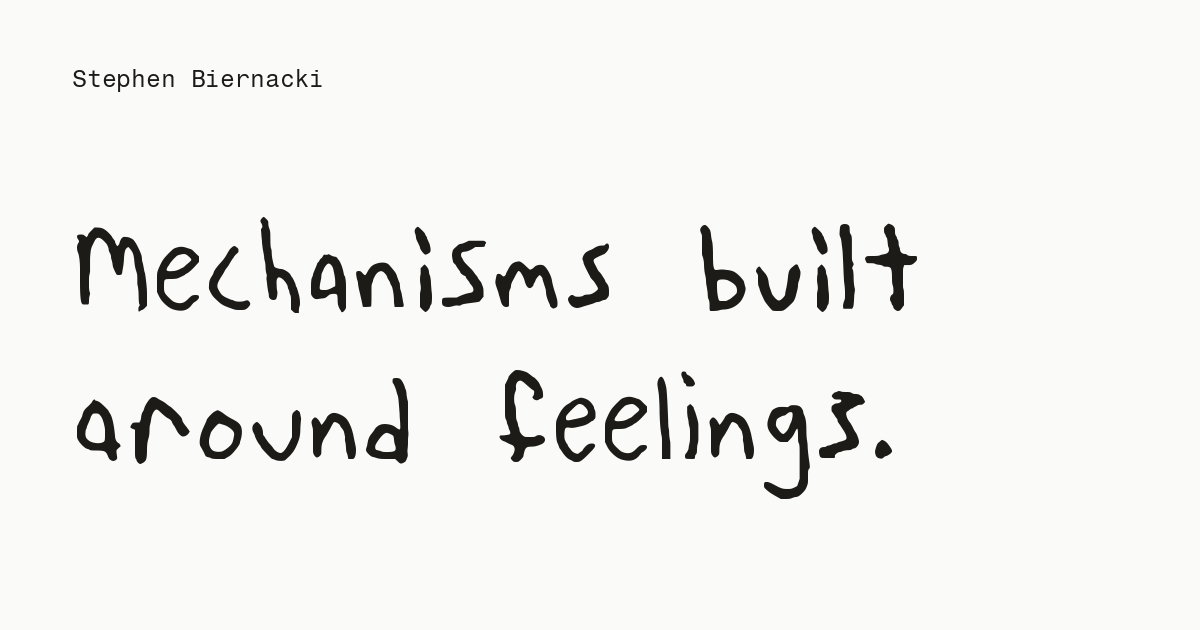
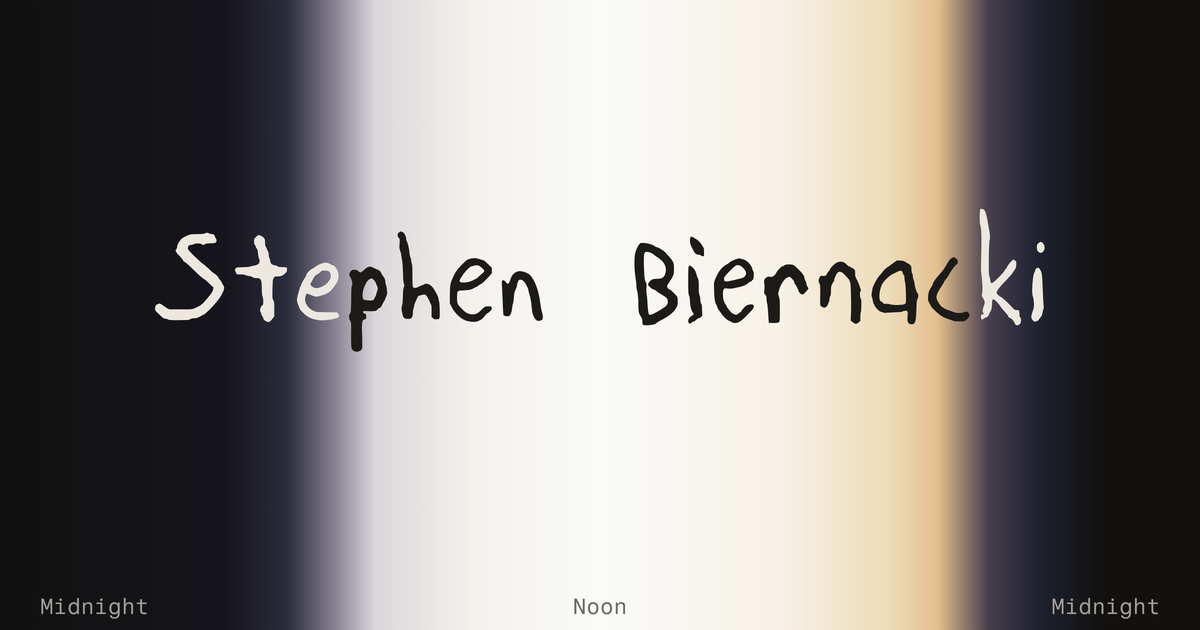
The site's share image is The day
Stephen's pick: his name in the hand across the colors the site takes
through one day, from midnight to midnight, each letter in the ink the
site uses on the color behind it. The front page, the Statement,
Elsewhere, the 404 page and the five live works without a card of their
own use it. Pages now ask for og.png?v=2, so services that kept the old
card fetch the new one, and each gives the image a plain description.

Claude-Session: https://claude.ai/code/session_014FDTHNW6CwwbjPTPEX69sd

diff --git a/index.html b/index.html
@@ -11,9 +11,10 @@
 <meta property="og:site_name" content="Stephen Biernacki">
 <meta property="og:title" content="Stephen Biernacki">
 <meta property="og:description" content="Mechanisms built around feelings. Two decades and counting in marketing — the business of being seen — but the art goes the other way.">
-<meta property="og:image" content="https://stephenbiernacki.com/assets/og.png">
+<meta property="og:image" content="https://stephenbiernacki.com/assets/og.png?v=2">
 <meta property="og:image:width" content="1200">
 <meta property="og:image:height" content="630">
+<meta property="og:image:alt" content="Stephen Biernacki, handwritten across the colors this site takes through one day: dark at midnight, white at noon, warm at dusk.">
 <meta name="twitter:card" content="summary_large_image">
 <link rel="icon" href="favicon.svg" type="image/svg+xml">
 <link rel="icon" href="favicon-32.png" sizes="32x32" type="image/png">

diff --git a/works/alien-invasion-of-privacy/index.html b/works/alien-invasion-of-privacy/index.html
@@ -11,9 +11,10 @@
 <meta property="og:site_name" content="Stephen Biernacki">
 <meta property="og:title" content="Alien Invasion of Privacy by Stephen Biernacki">
 <meta property="og:description" content="In the movies, the aliens are the ones watching. Here, the alien is the one being watched.">
-<meta property="og:image" content="https://stephenbiernacki.com/assets/og.png">
+<meta property="og:image" content="https://stephenbiernacki.com/assets/og.png?v=2">
 <meta property="og:image:width" content="1200">
 <meta property="og:image:height" content="630">
+<meta property="og:image:alt" content="Stephen Biernacki, handwritten across the colors this site takes through one day: dark at midnight, white at noon, warm at dusk.">
 <meta name="twitter:card" content="summary_large_image">
 <link rel="icon" href="../../favicon.svg" type="image/svg+xml">
 <link rel="icon" href="../../favicon-32.png" sizes="32x32" type="image/png">

diff --git a/works/untitled-for-jo/index.html b/works/untitled-for-jo/index.html
@@ -11,9 +11,10 @@
 <meta property="og:site_name" content="Stephen Biernacki">
 <meta property="og:title" content="Untitled (For Jo) by Stephen Biernacki">
 <meta property="og:description" content="An ever-changing, screen-adaptive digital evolution of Jo Baer’s Single Paintings series.">
-<meta property="og:image" content="https://stephenbiernacki.com/assets/og.png">
+<meta property="og:image" content="https://stephenbiernacki.com/assets/og.png?v=2">
 <meta property="og:image:width" content="1200">
 <meta property="og:image:height" content="630">
+<meta property="og:image:alt" content="Stephen Biernacki, handwritten across the colors this site takes through one day: dark at midnight, white at noon, warm at dusk.">
 <meta name="twitter:card" content="summary_large_image">
 <link rel="icon" href="../../favicon.svg" type="image/svg+xml">
 <link rel="icon" href="../../favicon-32.png" sizes="32x32" type="image/png">

diff --git a/works/unbecoming/index.html b/works/unbecoming/index.html
@@ -11,9 +11,10 @@
 <meta property="og:site_name" content="Stephen Biernacki">
 <meta property="og:title" content="UNBECOMING by Stephen Biernacki">
 <meta property="og:description" content="A reflection on the quiet unraveling of self within relationships.">
-<meta property="og:image" content="https://stephenbiernacki.com/assets/og.png">
+<meta property="og:image" content="https://stephenbiernacki.com/assets/og.png?v=2">
 <meta property="og:image:width" content="1200">
 <meta property="og:image:height" content="630">
+<meta property="og:image:alt" content="Stephen Biernacki, handwritten across the colors this site takes through one day: dark at midnight, white at noon, warm at dusk.">
 <meta name="twitter:card" content="summary_large_image">
 <link rel="icon" href="../../favicon.svg" type="image/svg+xml">
 <link rel="icon" href="../../favicon-32.png" sizes="32x32" type="image/png">

diff --git a/works/vestige/index.html b/works/vestige/index.html
@@ -11,9 +11,10 @@
 <meta property="og:site_name" content="Stephen Biernacki">
 <meta property="og:title" content="Vestige by Stephen Biernacki">
 <meta property="og:description" content="He’s with me, but it’s different now.">
-<meta property="og:image" content="https://stephenbiernacki.com/assets/og.png">
+<meta property="og:image" content="https://stephenbiernacki.com/assets/og.png?v=2">
 <meta property="og:image:width" content="1200">
 <meta property="og:image:height" content="630">
+<meta property="og:image:alt" content="Stephen Biernacki, handwritten across the colors this site takes through one day: dark at midnight, white at noon, warm at dusk.">
 <meta name="twitter:card" content="summary_large_image">
 <link rel="icon" href="../../favicon.svg" type="image/svg+xml">
 <link rel="icon" href="../../favicon-32.png" sizes="32x32" type="image/png">

diff --git a/elsewhere/index.html b/elsewhere/index.html
@@ -11,9 +11,10 @@
 <meta property="og:site_name" content="Stephen Biernacki">
 <meta property="og:title" content="Elsewhere — Stephen Biernacki">
 <meta property="og:description" content="Where to find Stephen Biernacki’s work.">
-<meta property="og:image" content="https://stephenbiernacki.com/assets/og.png">
+<meta property="og:image" content="https://stephenbiernacki.com/assets/og.png?v=2">
 <meta property="og:image:width" content="1200">
 <meta property="og:image:height" content="630">
+<meta property="og:image:alt" content="Stephen Biernacki, handwritten across the colors this site takes through one day: dark at midnight, white at noon, warm at dusk.">
 <meta name="twitter:card" content="summary_large_image">
 <link rel="icon" href="../favicon.svg" type="image/svg+xml">
 <link rel="icon" href="../favicon-32.png" sizes="32x32" type="image/png">

diff --git a/works/self-addressed/index.html b/works/self-addressed/index.html
@@ -11,9 +11,10 @@
 <meta property="og:site_name" content="Stephen Biernacki">
 <meta property="og:title" content="Self-Addressed by Stephen Biernacki">
 <meta property="og:description" content="For you, with a bit of me.">
-<meta property="og:image" content="https://stephenbiernacki.com/assets/og.png">
+<meta property="og:image" content="https://stephenbiernacki.com/assets/og.png?v=2">
 <meta property="og:image:width" content="1200">
 <meta property="og:image:height" content="630">
+<meta property="og:image:alt" content="Stephen Biernacki, handwritten across the colors this site takes through one day: dark at midnight, white at noon, warm at dusk.">
 <meta name="twitter:card" content="summary_large_image">
 <link rel="icon" href="../../favicon.svg" type="image/svg+xml">
 <link rel="icon" href="../../favicon-32.png" sizes="32x32" type="image/png">

diff --git a/statement/index.html b/statement/index.html
@@ -11,9 +11,10 @@
 <meta property="og:site_name" content="Stephen Biernacki">
 <meta property="og:title" content="Statement — Stephen Biernacki">
 <meta property="og:description" content="I build mechanisms around feelings.">
-<meta property="og:image" content="https://stephenbiernacki.com/assets/og.png">
+<meta property="og:image" content="https://stephenbiernacki.com/assets/og.png?v=2">
 <meta property="og:image:width" content="1200">
 <meta property="og:image:height" content="630">
+<meta property="og:image:alt" content="Stephen Biernacki, handwritten across the colors this site takes through one day: dark at midnight, white at noon, warm at dusk.">
 <meta name="twitter:card" content="summary_large_image">
 <link rel="icon" href="../favicon.svg" type="image/svg+xml">
 <link rel="icon" href="../favicon-32.png" sizes="32x32" type="image/png">

diff --git a/404.html b/404.html
@@ -11,9 +11,10 @@
 <meta property="og:site_name" content="Stephen Biernacki">
 <meta property="og:title" content="Not found — Stephen Biernacki">
 <meta property="og:description" content="Nothing at this address.">
-<meta property="og:image" content="https://stephenbiernacki.com/assets/og.png">
+<meta property="og:image" content="https://stephenbiernacki.com/assets/og.png?v=2">
 <meta property="og:image:width" content="1200">
 <meta property="og:image:height" content="630">
+<meta property="og:image:alt" content="Stephen Biernacki, handwritten across the colors this site takes through one day: dark at midnight, white at noon, warm at dusk.">
 <meta name="twitter:card" content="summary_large_image">
 <link rel="icon" href="/favicon.svg" type="image/svg+xml">
 <link rel="icon" href="/favicon-32.png" sizes="32x32" type="image/png">

diff --git a/README.md b/README.md
@@ -195,9 +195,15 @@ footer.
 
 When a work's page is shared, on X or in a message, the card shows the work: `assets/share/<page>.jpg`,
 1200 × 630, the whole artwork on the paper color beside its title in the hand, never cropped. Moving works
-use one clear frame. Work pages are titled "Deathbed by Stephen Biernacki". The live works without a card
-of their own yet (Alien Invasion of Privacy, Vestige, Self-Addressed, UNBECOMING, Untitled (For Jo)) use
-the site's own card, `assets/og.png`.
+use one clear frame. Work pages are titled "Deathbed by Stephen Biernacki".
+
+The front page, the Statement, Elsewhere, and the live works without a card of their own yet (Alien
+Invasion of Privacy, Vestige, Self-Addressed, UNBECOMING, Untitled (For Jo)) use the site's own card,
+`assets/og.png`: the name in the hand across the colors the site takes through one day, from midnight
+to midnight, each letter in the ink the site uses on the color behind it. Its colors come from the list
+at the top of `assets/light.js`, so if those change, the card should be drawn again. Pages ask for it
+as `og.png?v=2`; raise the number whenever the card changes, so that services which kept a copy of the
+old one fetch the new one.
 
 ## Fonts
 
